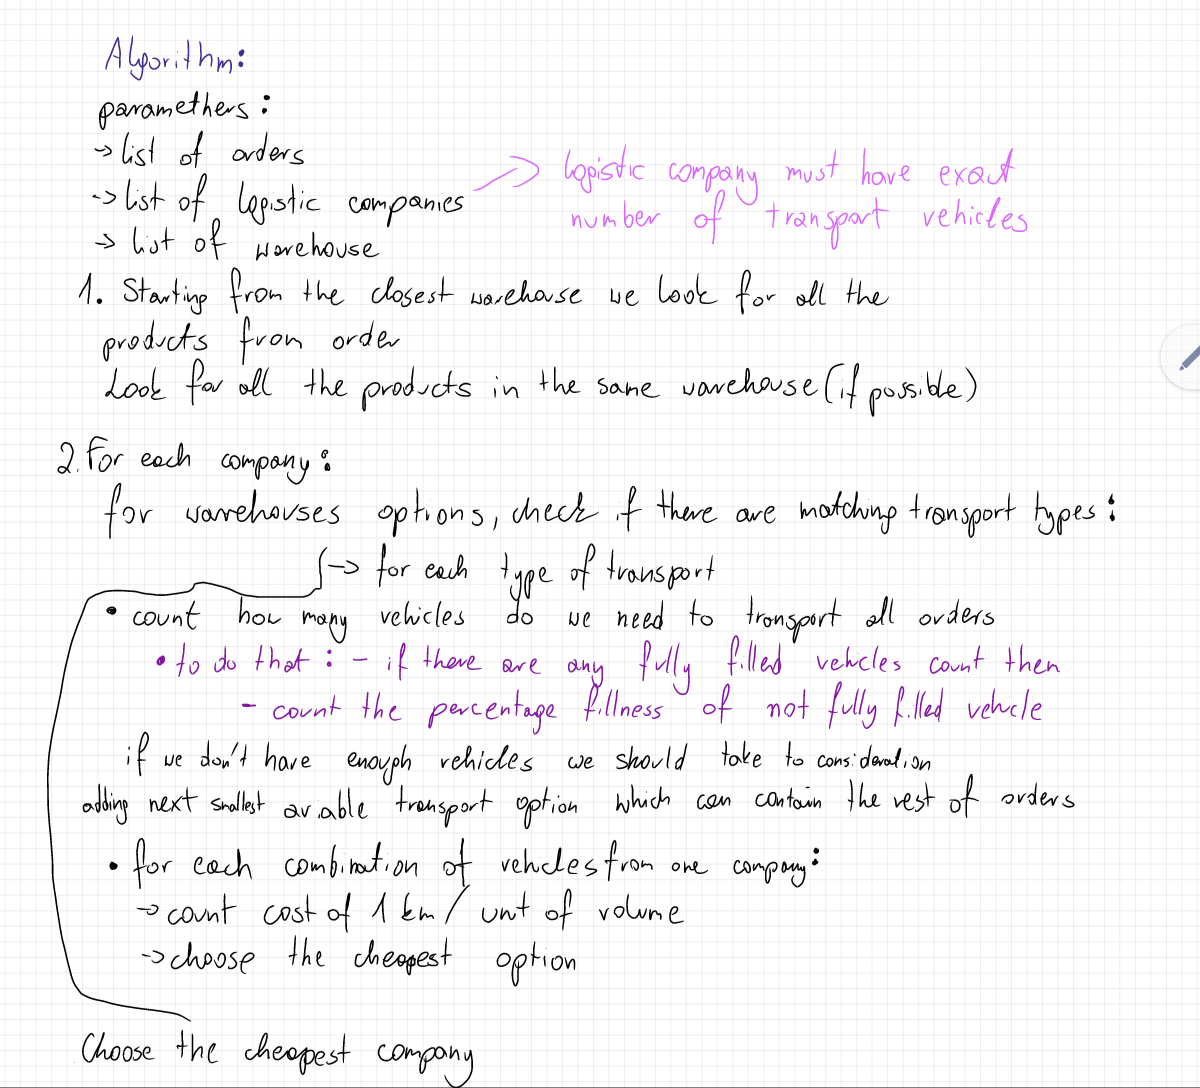
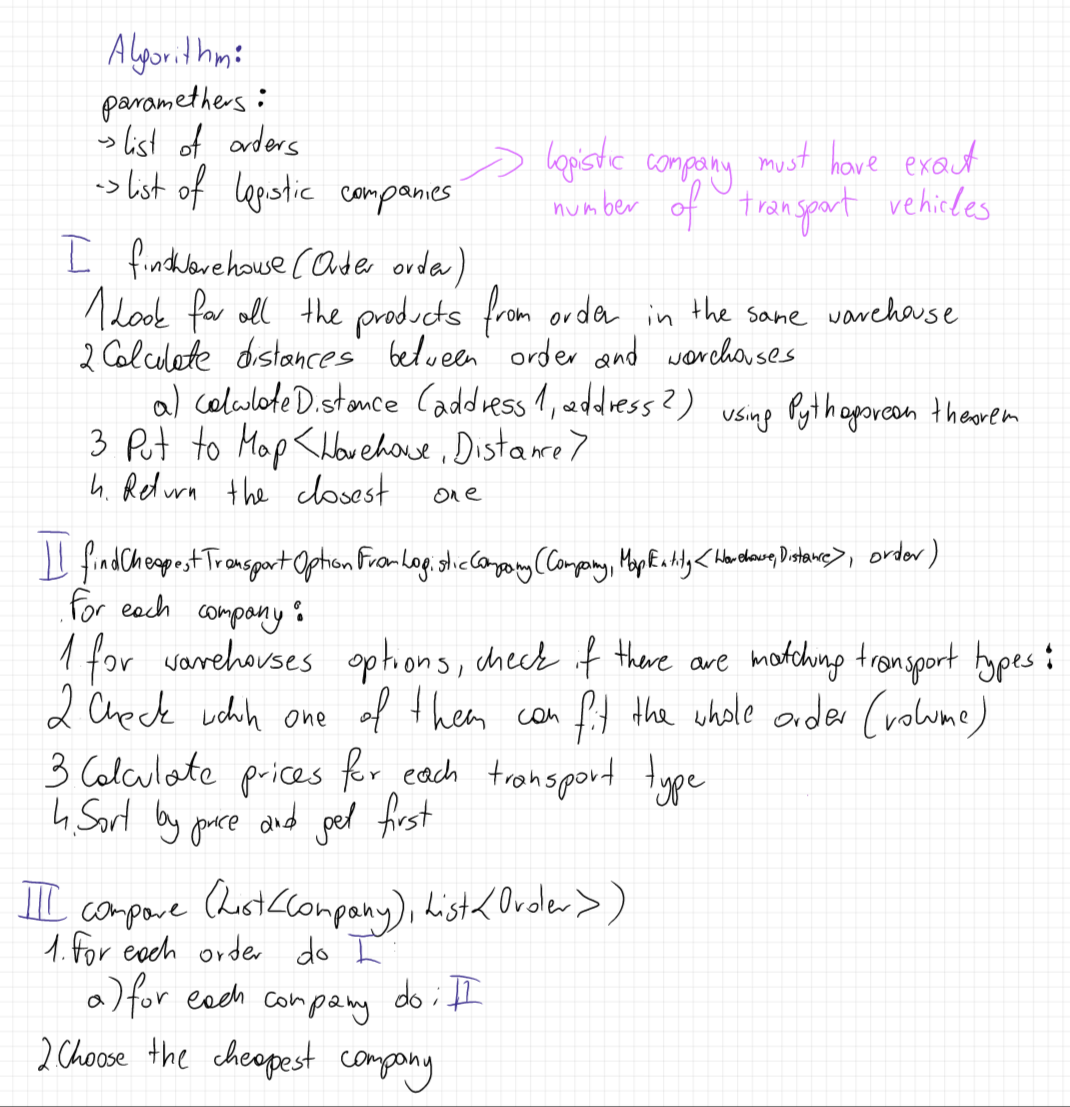
Added description of algorithm in readme and in resources

diff --git a/src/main/java/solvd/laba/algorithm/Algorithm.java b/src/main/java/solvd/laba/algorithm/Algorithm.java
@@ -20,7 +20,7 @@ public class Algorithm {
 
         Map<Warehouse, Double> warehouseWithDistanceMap = new HashMap<>();
 
-        //finding the closest Warehouse that has all ordered products
+
         List<Long> productsIds = order.getOrderItems().stream()
                 .map(orderItem -> orderItem.getProduct().getId())
                 .toList();

diff --git a/README.md b/README.md
@@ -22,6 +22,17 @@ This application offers logistics optimization for order fulfillment system with
 
 ![OptimisingLogistics.png](OptimisingLogistics.png)
 ## **Recommendation algorithms**
+1. For each order:
+* Find all warehouses, that have all the products from order
+* Calculate distance between them using Pythagorean theorem
+* Return the closest warehouse
+2. For each company:
+* Check matching transport types with warehouse
+* Check which of them can fit the entire order (by volume)
+* Calculate prices of left transport types
+* Sort by price ang get the cheapest one
+3. Choose the cheapest company for every order
+* Return order and assigned to it transport, price and company
 
 ## **Design patterns**
 
